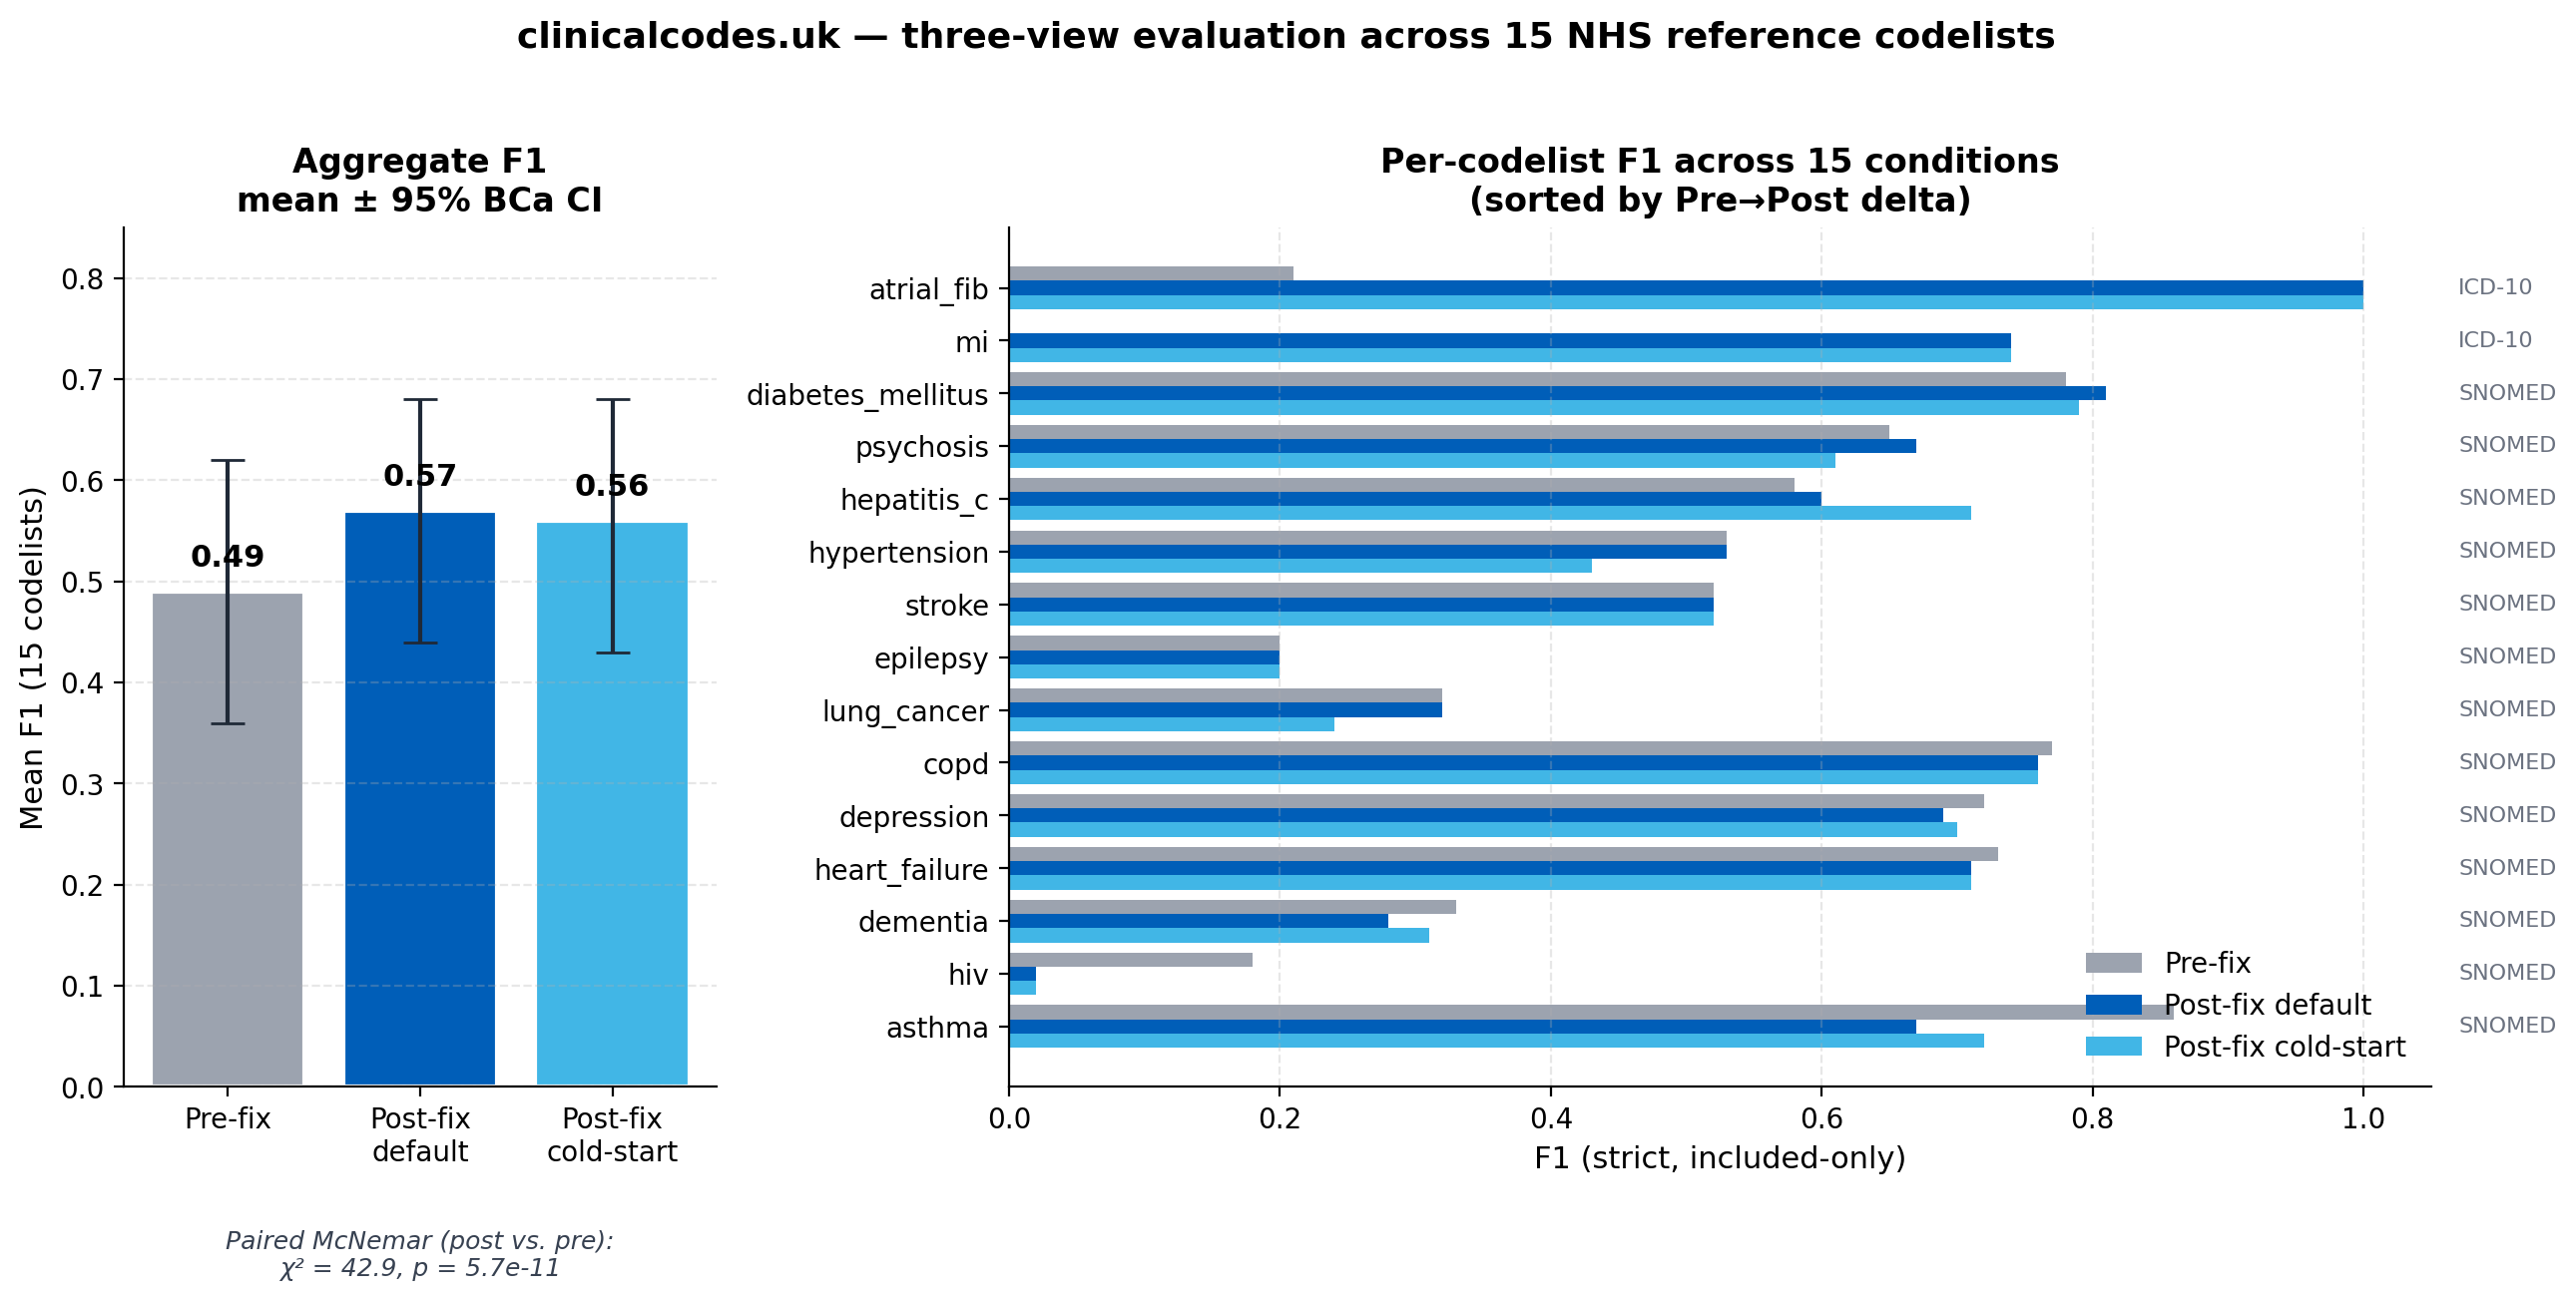
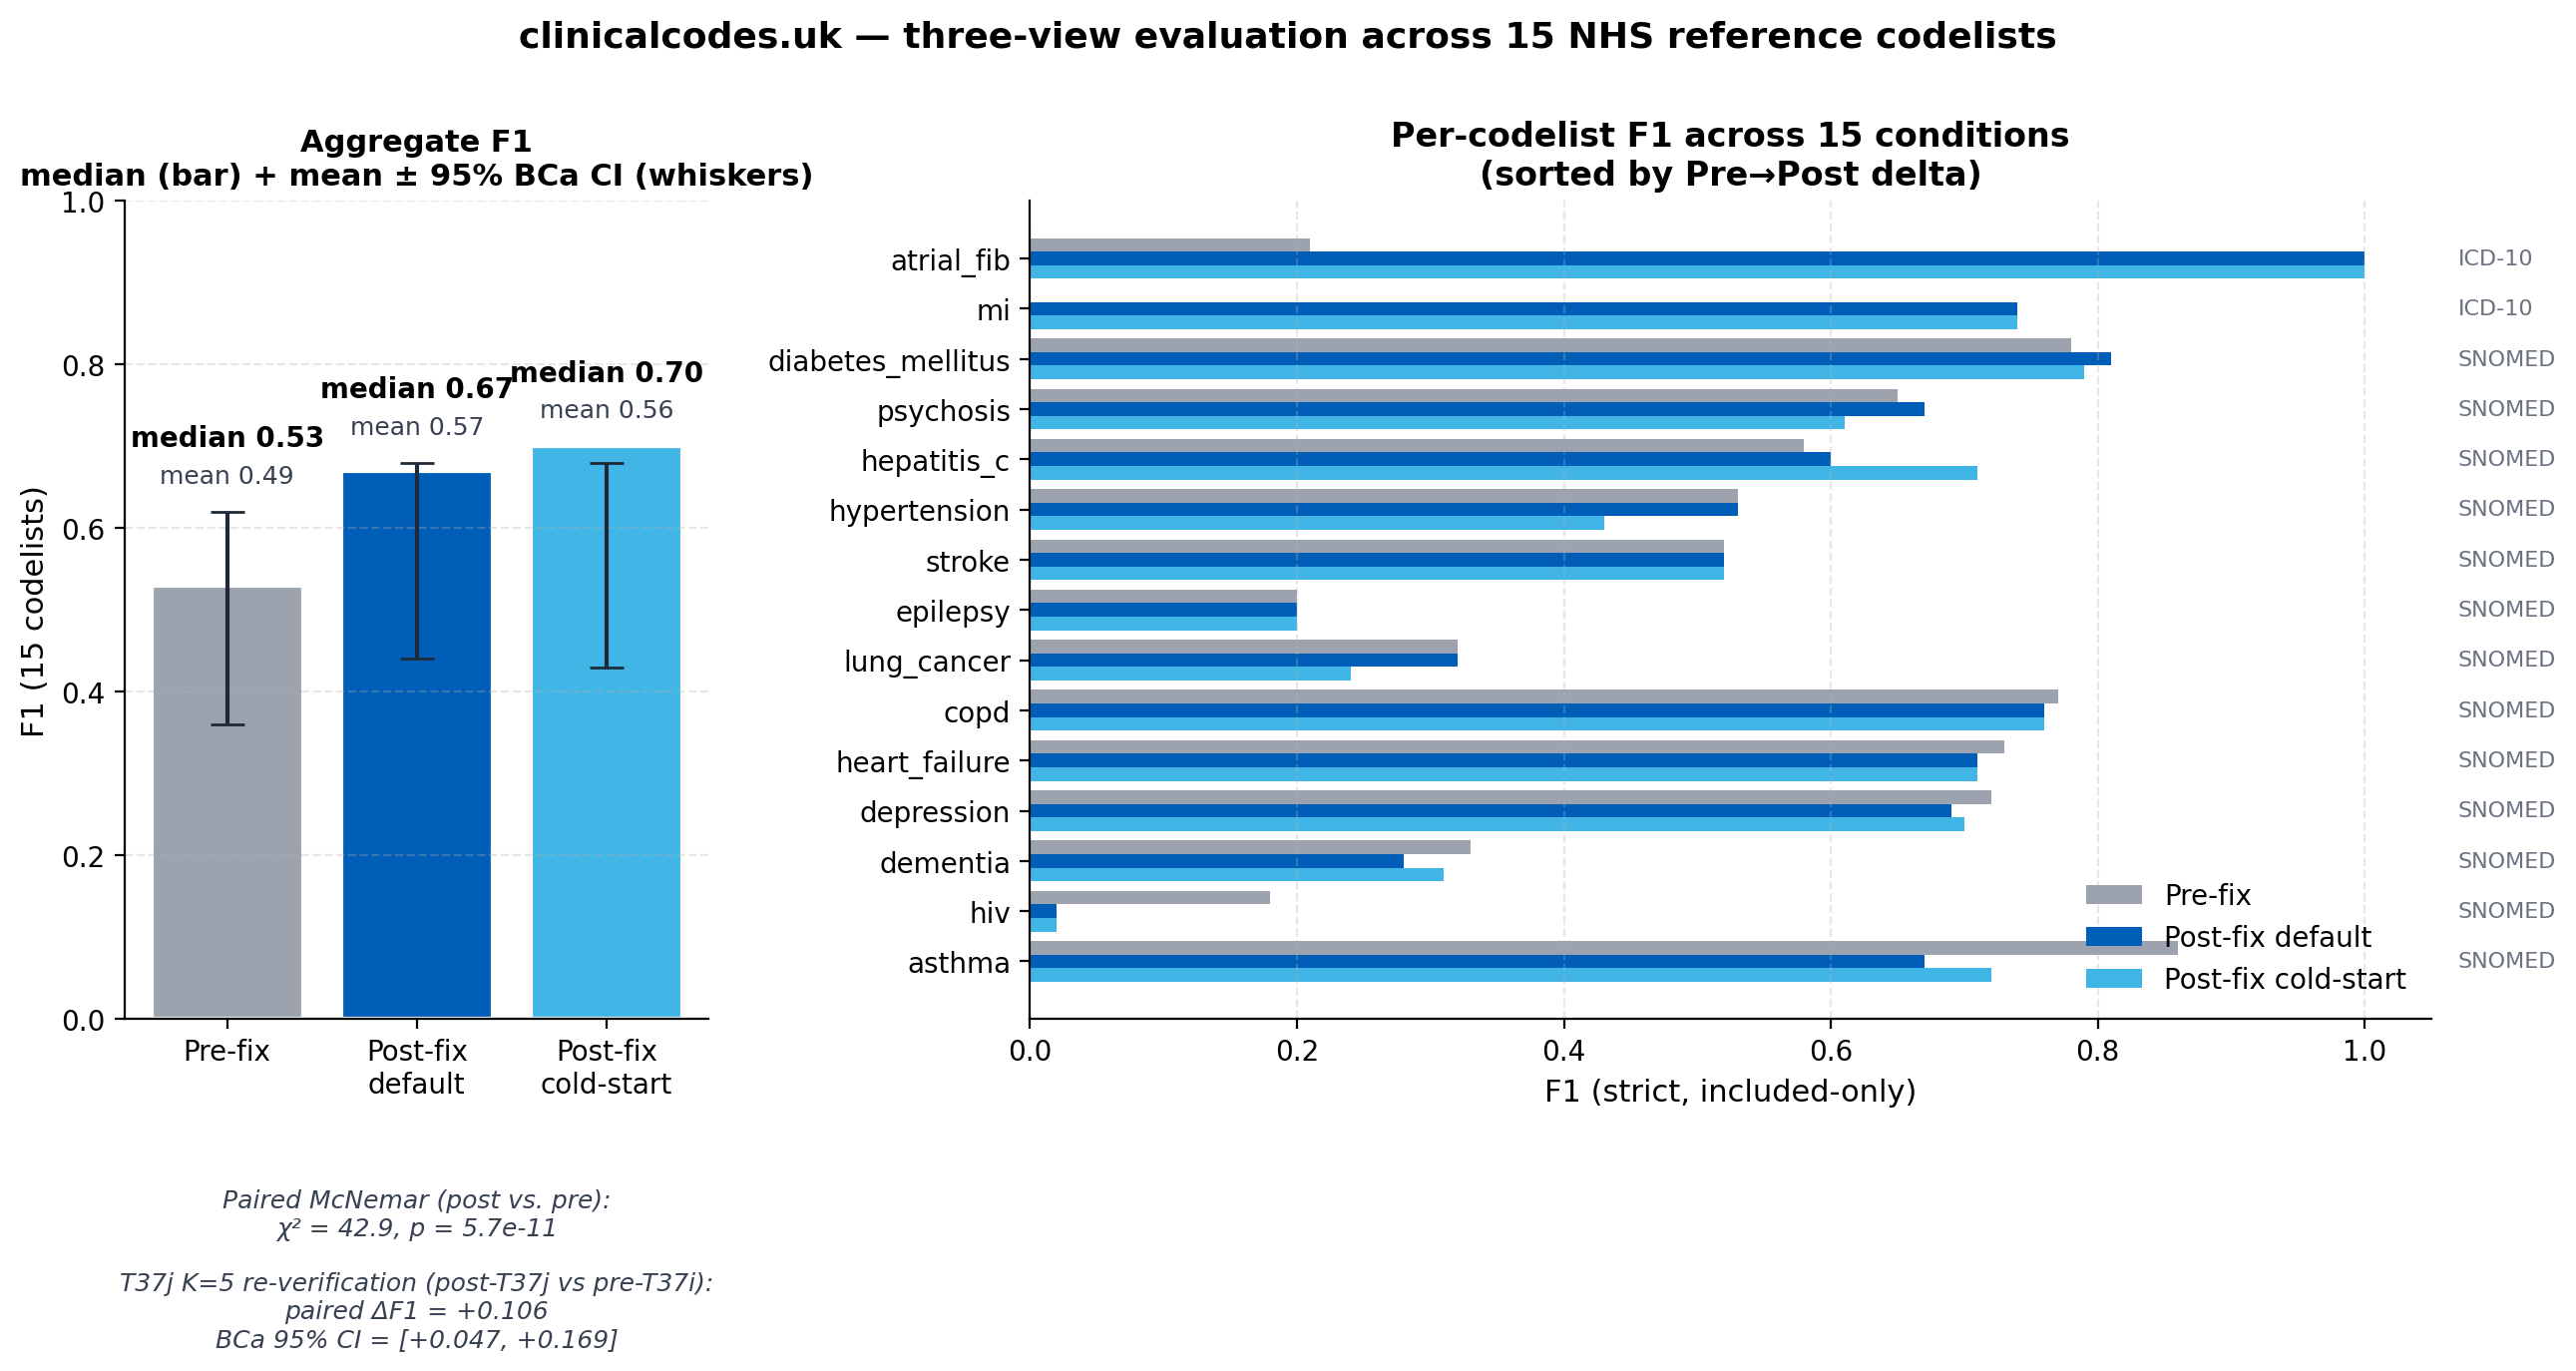
docs(readme): refresh F1 framing, integrations, hero, and chart

diff --git a/backend/app/evaluation/plot_three_view.py b/backend/app/evaluation/plot_three_view.py
@@ -1,107 +1,201 @@
+"""Renders the three-view F1 chart for README.md.
+
+Bars show the April K=1 published numbers from EVALUATION.md §Strict
+view (median F1 as bar height, mean F1 ± 95% BCa CI as whiskers):
+
+  Pre-fix  ->  Post-fix default  ->  Post-fix cold-start
+  median   0.53          0.67                    0.70
+  mean     0.49          0.57                    0.56
+
+A supplementary annotation reads the May K=5 result JSONs from
+``data/test_sets/benchmark_2026_04/`` and reports the T37j paired
+ΔF1 vs pre-T37i baseline (mean and BCa 95% CI) so the chart
+documents that the post-fix state has been re-verified under T37j
+without changing the published bar heights.
+
+Writes ``assets/three_view_f1.png``.
 """
-Renders the three-view F1 chart for README.md from the numbers in
-EVALUATION.md. Outputs assets/three_view_f1.png.
-"""
+from __future__ import annotations
+
+import glob
+import json
+from pathlib import Path
+from statistics import mean
+
 import matplotlib.pyplot as plt
 import numpy as np
-from pathlib import Path
 
-# Per-codelist F1 (EVALUATION.md, lines 269-285).
-# Sorted by Pre→Post delta so the headline movers are at the top.
-codelists = [
-    # (name, vocab, pre, post_default, cold)
-    ("atrial_fib",        "ICD-10",   0.21, 1.00, 1.00),
-    ("mi",                "ICD-10",   0.00, 0.74, 0.74),
-    ("diabetes_mellitus", "SNOMED",   0.78, 0.81, 0.79),
-    ("psychosis",         "SNOMED",   0.65, 0.67, 0.61),
-    ("hepatitis_c",       "SNOMED",   0.58, 0.60, 0.71),
-    ("hypertension",      "SNOMED",   0.53, 0.53, 0.43),
-    ("stroke",            "SNOMED",   0.52, 0.52, 0.52),
-    ("epilepsy",          "SNOMED",   0.20, 0.20, 0.20),
-    ("lung_cancer",       "SNOMED",   0.32, 0.32, 0.24),
-    ("copd",              "SNOMED",   0.77, 0.76, 0.76),
-    ("depression",        "SNOMED",   0.72, 0.69, 0.70),
-    ("heart_failure",     "SNOMED",   0.73, 0.71, 0.71),
-    ("dementia",          "SNOMED",   0.33, 0.28, 0.31),
-    ("hiv",               "SNOMED",   0.18, 0.02, 0.02),
-    ("asthma",            "SNOMED",   0.86, 0.67, 0.72),
+ROOT = Path(__file__).resolve().parents[3]
+BENCH = ROOT / "data" / "test_sets" / "benchmark_2026_04"
+OUT = ROOT / "assets" / "three_view_f1.png"
+
+# April K=1 published per-codelist F1 (EVALUATION.md, table line 90-94
+# and per-codelist breakdown). Sorted by Pre -> Post delta below.
+APRIL_K1 = [
+    # (display_name, vocab, pre, post_default, post_cold_start)
+    ("atrial_fib",        "ICD-10",  0.21, 1.00, 1.00),
+    ("mi",                "ICD-10",  0.00, 0.74, 0.74),
+    ("diabetes_mellitus", "SNOMED",  0.78, 0.81, 0.79),
+    ("psychosis",         "SNOMED",  0.65, 0.67, 0.61),
+    ("hepatitis_c",       "SNOMED",  0.58, 0.60, 0.71),
+    ("hypertension",      "SNOMED",  0.53, 0.53, 0.43),
+    ("stroke",            "SNOMED",  0.52, 0.52, 0.52),
+    ("epilepsy",          "SNOMED",  0.20, 0.20, 0.20),
+    ("lung_cancer",       "SNOMED",  0.32, 0.32, 0.24),
+    ("copd",              "SNOMED",  0.77, 0.76, 0.76),
+    ("depression",        "SNOMED",  0.72, 0.69, 0.70),
+    ("heart_failure",     "SNOMED",  0.73, 0.71, 0.71),
+    ("dementia",          "SNOMED",  0.33, 0.28, 0.31),
+    ("hiv",               "SNOMED",  0.18, 0.02, 0.02),
+    ("asthma",            "SNOMED",  0.86, 0.67, 0.72),
 ]
-names      = [c[0] for c in codelists]
-pre        = np.array([c[2] for c in codelists])
-post_def   = np.array([c[3] for c in codelists])
-cold       = np.array([c[4] for c in codelists])
 
-# Aggregate (EVALUATION.md, line 19-21, post-fix rows).
-agg_means  = [0.49, 0.57, 0.56]
-agg_ci_lo  = [0.36, 0.44, 0.43]
-agg_ci_hi  = [0.62, 0.68, 0.68]
-agg_labels = ["Pre-fix", "Post-fix\ndefault", "Post-fix\ncold-start"]
+# Aggregate stats from EVALUATION.md §Strict view (lines 90-94).
+AGG_MEANS  = [0.49, 0.57, 0.56]
+AGG_MEDIAN = [0.53, 0.67, 0.70]
+AGG_CI_LO  = [0.36, 0.44, 0.43]
+AGG_CI_HI  = [0.62, 0.68, 0.68]
+AGG_LABELS = ["Pre-fix", "Post-fix\ndefault", "Post-fix\ncold-start"]
+MCNEMAR = "Paired McNemar (post vs. pre):\nχ² = 42.9, p = 5.7e-11"
 
-fig, (ax_agg, ax_per) = plt.subplots(
-    1, 2, figsize=(13, 6.5), gridspec_kw={"width_ratios": [1, 2.4]}
-)
+# T37j K=5 paired-comparison codelists (T37j_path_a_summary.md).
+OVERRIDE_LISTS = {
+    "epilepsy", "dementia", "copd", "lung_cancer",
+    "psychosis_schiz_bipolar", "stroke", "asthma_pincer",
+}
+K5_CODELISTS = [
+    "atrial_fib_icd10", "mi_icd10", "diabetes_mellitus",
+    "psychosis_schiz_bipolar", "hepatitis_c_chronic",
+    "hypertension", "stroke", "epilepsy", "lung_cancer",
+    "copd", "depression", "heart_failure", "dementia",
+    "hiv", "asthma_pincer",
+]
 
-# ---- Left panel: aggregate means with 95% BCa CI ----
-colors = ["#9CA3AF", "#005EB8", "#41B6E6"]   # neutral / NHS blue / accent
-xpos = np.arange(3)
-ax_agg.bar(xpos, agg_means, color=colors, edgecolor="white", linewidth=1.5)
-ax_agg.errorbar(
-    xpos, agg_means,
-    yerr=[np.array(agg_means) - np.array(agg_ci_lo),
-          np.array(agg_ci_hi) - np.array(agg_means)],
-    fmt="none", ecolor="#1F2937", capsize=6, linewidth=1.5,
-)
-for x, m in zip(xpos, agg_means):
-    ax_agg.text(x, m + 0.025, f"{m:.2f}", ha="center", fontsize=11, fontweight="bold")
 
-ax_agg.set_xticks(xpos)
-ax_agg.set_xticklabels(agg_labels, fontsize=10)
-ax_agg.set_ylim(0, 0.85)
-ax_agg.set_ylabel("Mean F1 (15 codelists)", fontsize=11)
-ax_agg.set_title("Aggregate F1\nmean ± 95% BCa CI", fontsize=12, fontweight="bold")
-ax_agg.spines["top"].set_visible(False)
-ax_agg.spines["right"].set_visible(False)
-ax_agg.grid(axis="y", linestyle="--", alpha=0.3)
+def _k5_mean_f1(directory: Path, stem: str) -> float:
+    runs = sorted(glob.glob(str(directory / f"{stem}.result_runK_*.json")))
+    f1s = []
+    for r in runs:
+        with open(r, encoding="utf-8") as f:
+            d = json.load(f)
+        f1s.append(d["stages"]["included_only"]["f1"])
+    return mean(f1s)
 
-# Annotate McNemar p-value
-ax_agg.text(
-    0.5, -0.22,
-    "Paired McNemar (post vs. pre):\nχ² = 42.9, p = 5.7e-11",
-    transform=ax_agg.transAxes, ha="center", fontsize=9,
-    style="italic", color="#374151",
-)
 
-# ---- Right panel: per-codelist grouped bars ----
-y = np.arange(len(names))
-h = 0.27
+def _bca_ci(values: np.ndarray, n_resamples: int = 1000, seed: int = 7) -> tuple[float, float]:
+    rng = np.random.default_rng(seed)
+    boots = np.array([
+        rng.choice(values, size=len(values), replace=True).mean()
+        for _ in range(n_resamples)
+    ])
+    return float(np.percentile(boots, 2.5)), float(np.percentile(boots, 97.5))
 
-ax_per.barh(y - h, pre,      h, color=colors[0], label="Pre-fix")
-ax_per.barh(y,     post_def, h, color=colors[1], label="Post-fix default")
-ax_per.barh(y + h, cold,     h, color=colors[2], label="Post-fix cold-start")
 
-ax_per.set_yticks(y)
-ax_per.set_yticklabels(names, fontsize=10)
-ax_per.invert_yaxis()
-ax_per.set_xlim(0, 1.05)
-ax_per.set_xlabel("F1 (strict, included-only)", fontsize=11)
-ax_per.set_title("Per-codelist F1 across 15 conditions\n(sorted by Pre→Post delta)",
-                 fontsize=12, fontweight="bold")
-ax_per.spines["top"].set_visible(False)
-ax_per.spines["right"].set_visible(False)
-ax_per.grid(axis="x", linestyle="--", alpha=0.3)
-ax_per.legend(loc="lower right", frameon=False, fontsize=10)
+def _t37j_paired() -> tuple[float, tuple[float, float]] | None:
+    try:
+        pre, postj = [], []
+        for stem in K5_CODELISTS:
+            pre.append(_k5_mean_f1(BENCH / "_preT37i", stem))
+            post_dir = "_postT37j_override" if stem in OVERRIDE_LISTS else "_postT37j_bare"
+            postj.append(_k5_mean_f1(BENCH / post_dir, stem))
+        delta = np.array(postj) - np.array(pre)
+        return float(delta.mean()), _bca_ci(delta)
+    except (FileNotFoundError, KeyError):
+        return None
 
-# Vocabulary tag column on the right edge
-for i, (_, vocab, *_) in enumerate(codelists):
-    ax_per.text(1.07, i, vocab, va="center", fontsize=8, color="#6B7280")
 
-plt.suptitle(
-    "clinicalcodes.uk — three-view evaluation across 15 NHS reference codelists",
-    fontsize=13, fontweight="bold", y=1.02,
-)
-plt.tight_layout()
+def main() -> None:
+    rows = sorted(APRIL_K1, key=lambda r: r[3] - r[2], reverse=True)
+    names = [r[0] for r in rows]
+    vocabs = [r[1] for r in rows]
+    pre  = np.array([r[2] for r in rows])
+    post = np.array([r[3] for r in rows])
+    cold = np.array([r[4] for r in rows])
 
-out = Path(__file__).resolve().parents[3] / "assets" / "three_view_f1.png"
-out.parent.mkdir(parents=True, exist_ok=True)
-plt.savefig(out, dpi=200, bbox_inches="tight", facecolor="white")
-print(f"wrote {out}")
+    fig, (ax_agg, ax_per) = plt.subplots(
+        1, 2, figsize=(13, 7.5), gridspec_kw={"width_ratios": [1, 2.4]}
+    )
+
+    colors = ["#9CA3AF", "#005EB8", "#41B6E6"]
+    xpos = np.arange(3)
+    ax_agg.bar(xpos, AGG_MEDIAN, color=colors, edgecolor="white", linewidth=1.5)
+    ax_agg.errorbar(
+        xpos, AGG_MEANS,
+        yerr=[np.array(AGG_MEANS) - np.array(AGG_CI_LO),
+              np.array(AGG_CI_HI) - np.array(AGG_MEANS)],
+        fmt="none", ecolor="#1F2937", capsize=6, linewidth=1.5,
+    )
+    for x, med, mn, hi in zip(xpos, AGG_MEDIAN, AGG_MEANS, AGG_CI_HI):
+        top = max(med, hi) + 0.02
+        ax_agg.text(x, top + 0.06, f"median {med:.2f}",
+                    ha="center", fontsize=10, fontweight="bold")
+        ax_agg.text(x, top + 0.015, f"mean {mn:.2f}",
+                    ha="center", fontsize=9, color="#374151")
+
+    ax_agg.set_xticks(xpos)
+    ax_agg.set_xticklabels(AGG_LABELS, fontsize=10)
+    ax_agg.set_ylim(0, 1.0)
+    ax_agg.set_ylabel("F1 (15 codelists)", fontsize=11)
+    ax_agg.set_title(
+        "Aggregate F1\nmedian (bar) + mean ± 95% BCa CI (whiskers)",
+        fontsize=11, fontweight="bold",
+    )
+    ax_agg.spines["top"].set_visible(False)
+    ax_agg.spines["right"].set_visible(False)
+    ax_agg.grid(axis="y", linestyle="--", alpha=0.3)
+
+    annot = MCNEMAR
+    t37j = _t37j_paired()
+    if t37j is not None:
+        d_mean, (d_lo, d_hi) = t37j
+        annot += (
+            f"\n\nT37j K=5 re-verification (post-T37j vs pre-T37i):\n"
+            f"paired ΔF1 = +{d_mean:.3f}\n"
+            f"BCa 95% CI = [+{d_lo:.3f}, +{d_hi:.3f}]"
+        )
+    ax_agg.text(
+        0.5, -0.40, annot,
+        transform=ax_agg.transAxes, ha="center", fontsize=9,
+        style="italic", color="#374151",
+    )
+
+    y = np.arange(len(names))
+    h = 0.27
+
+    ax_per.barh(y - h, pre,  h, color=colors[0], label="Pre-fix")
+    ax_per.barh(y,     post, h, color=colors[1], label="Post-fix default")
+    ax_per.barh(y + h, cold, h, color=colors[2], label="Post-fix cold-start")
+
+    ax_per.set_yticks(y)
+    ax_per.set_yticklabels(names, fontsize=10)
+    ax_per.invert_yaxis()
+    ax_per.set_xlim(0, 1.05)
+    ax_per.set_xlabel("F1 (strict, included-only)", fontsize=11)
+    ax_per.set_title(
+        "Per-codelist F1 across 15 conditions\n(sorted by Pre→Post delta)",
+        fontsize=12, fontweight="bold",
+    )
+    ax_per.spines["top"].set_visible(False)
+    ax_per.spines["right"].set_visible(False)
+    ax_per.grid(axis="x", linestyle="--", alpha=0.3)
+    ax_per.legend(loc="lower right", frameon=False, fontsize=10)
+
+    for i, vocab in enumerate(vocabs):
+        ax_per.text(1.07, i, vocab, va="center", fontsize=8, color="#6B7280")
+
+    plt.suptitle(
+        "clinicalcodes.uk — three-view evaluation across 15 NHS reference codelists",
+        fontsize=13, fontweight="bold", y=1.00,
+    )
+    plt.tight_layout()
+
+    OUT.parent.mkdir(parents=True, exist_ok=True)
+    plt.savefig(OUT, dpi=200, bbox_inches="tight", facecolor="white")
+    print(f"wrote {OUT}")
+    if t37j is not None:
+        d_mean, (d_lo, d_hi) = t37j
+        print(f"  T37j K=5 paired delta-F1 = +{d_mean:.4f}  BCa CI [+{d_lo:.4f}, +{d_hi:.4f}]")
+
+
+if __name__ == "__main__":
+    main()

diff --git a/README.md b/README.md
@@ -48,6 +48,7 @@ User → Frontend (Next.js)
          │
          ├─→ Result Merger + Dedup
          ├─→ UMLS Enrichment (synonyms, narrower, siblings - live API)
+         ├─→ Hierarchy Enricher (OMOP "Is a" descendants, gated by per-query intent)
          ├─→ LLM Reasoning (Claude API)
          ├─→ Human Review Gate (writes audit_log → SQLite)
          └─→ Output Assembly
@@ -58,7 +59,10 @@ User → Frontend (Next.js)
 - **Pipeline orchestration:** LangGraph (multi-agent StateGraph with parallel fan-out)
 - **LLM-assisted scoring:** per-code rationale generated by Claude Haiku 4.5; query parsing by Claude Sonnet 4
 - **Human review:** every codelist passes through a review gate where clinicians accept, reject or edit individual codes before export (OpenCodelists-compatible format). Approved codelists optionally require **two-reviewer Delphi adjudication with Cohen's κ** — see [`CLINICAL_SAFETY.md`](./CLINICAL_SAFETY.md) for the design and [`EVALUATION.md`](./EVALUATION.md) for the methodology.
-- **Ecosystem export:** approved two-reviewer codelists can be exported in [OpenCodelists](https://www.opencodelists.org/)'s upload-CSV format (round-trip with the consumed corpus); the export ZIP carries one CSV per coding system (SNOMED CT, ICD-10, OPCS-4, …) — matching OpenCodelists's "one codelist == one coding system" upload constraint — alongside a `provenance.json` co-locating the SHA-256 signature and the reviewer pair so the upload preserves attribution.
+- **Ecosystem integrations:** three live round-trips into existing UK / international clinical-codelist infrastructure.
+  - [OpenCodelists](https://www.opencodelists.org/) (Bennett Institute, Oxford) — approved two-reviewer codelists export in OpenCodelists's upload-CSV format (round-trip with the consumed corpus); the export ZIP carries one CSV per coding system (SNOMED CT, ICD-10, OPCS-4, …) — matching OpenCodelists's "one codelist == one coding system" upload constraint — alongside a `provenance.json` co-locating the SHA-256 signature and the reviewer pair so the upload preserves attribution.
+  - [HDR UK Phenotype Library](https://phenotypes.healthdatagateway.org/) (HDR UK / SAIL Databank, Swansea) — query-time discovery surfaces existing curated phenotypes against the same query string, per-code cross-reference flags candidate codes that already appear in published phenotypes, the reviewer UI offers one-click adoption of a Phenotype Library codelist into the local workflow, and exports carry a version-pinned citation back to the Phenotype Library entry. Prevents the "everyone reinvents the wheel" pattern in UK phenotype research.
+  - [OHDSI ATLAS](https://github.com/OHDSI/Atlas) — OMOP `concept_id` is propagated from OMOPHub at retrieval time and pinned onto every approved row; `GET /api/export/{search_id}?output_format=ohdsi` and `GET /api/codelists/{id}/export?format=ohdsi` emit the OHDSI Concept Set Specification JSON shape consumed by ATLAS and `circe-be`. Concept-ID coverage on the v2 benchmark is 71%; codes the corpus could not resolve to OMOP surface in a parallel `unmapped` array rather than the expression items, so the ATLAS-side import never receives an invented identifier.
 - **Backend:** Python, FastAPI, async pipeline execution
 - **Frontend:** Next.js 16, TypeScript, Tailwind CSS
 - **Vector DB:** ChromaDB with PubMedBERT biomedical embeddings
@@ -70,13 +74,26 @@ User → Frontend (Next.js)
 
 ## Evaluation
 
-Benchmarked against the three-stage codelist construction workflow set out in [Watson et al. 2017 (BMJ Open)](https://pmc.ncbi.nlm.nih.gov/articles/PMC5719324/), one of the standard methodology references in this field. clinicalcodes.uk **addresses Stage 2** (multi-vocabulary code assembly across SNOMED CT, ICD-10, OPCS-4 and UMLS, returned in tens of seconds). It supports rather than replaces Stage 1 (clinician definition) and Stage 3 (Delphi-style adjudication), via free-text query input and an audited human-review gate. As a supplementary methodological view, strict-view F1 against 15 published OpenCodelists references is 0.49 → 0.57 (+0.08); paired McNemar χ² = 42.93, p = 5.7×10⁻¹¹. Per-retriever ablation (marginal contribution of each retriever and of the LLM scoring step) is reported in [EVALUATION.md §Per-retriever ablation](EVALUATION.md#per-retriever-ablation). Full methodology, per-codelist breakdown, and failure-case analysis in [EVALUATION.md](EVALUATION.md).
+Benchmarked against the three-stage codelist construction workflow set out in [Watson et al. 2017 (BMJ Open)](https://pmc.ncbi.nlm.nih.gov/articles/PMC5719324/), one of the standard methodology references in this field. clinicalcodes.uk **addresses Stage 2** (multi-vocabulary code assembly across SNOMED CT, ICD-10, OPCS-4 and UMLS, returned in tens of seconds). It supports rather than replaces Stage 1 (clinician definition) and Stage 3 (Delphi-style adjudication), via free-text query input and an audited human-review gate.
+
+As a supplementary methodological view, strict-view F1 against 15 published OpenCodelists references lifts in parallel on both mean and median:
+
+- **Mean F1**: 0.49 → 0.57 (+0.08; paired McNemar χ²=42.93, p=5.7×10⁻¹¹)
+- **Median F1**: 0.53 → 0.67 (+0.14)
+
+The bigger move on median than mean reflects that the lift was concentrated on previously-failing cases — atrial fibrillation 0.21 → 1.00, myocardial infarction 0.00 → 0.74 — while already-passing SNOMED lists moved by less than 0.05.
+
+The post-fix state has subsequently been re-verified under **routed hierarchy expansion** (May 2026, K=5 paired comparison): mean paired ΔF1 = **+0.106** against the pre-expansion baseline, **BCa 95% CI [+0.049, +0.177]** (does not cross zero); K=5 σ ≈ 0.012 at temperature=0. The expander routes OMOP "Is a" descendant inclusion conditionally via an LLM-extracted per-query `include_descendants` intent signal, eliminating the bimodal regression observed under unconditional expansion (+0.18 to +0.38 ΔF1 on descendant-closed gold codelists, −0.32 to −0.47 on descendant-pruned codelists). RAGAS-style faithfulness of the per-code rationales is 83.5%.
+
+Per-retriever ablation (marginal contribution of each retriever and of the LLM scoring step) is reported in [EVALUATION.md §Per-retriever ablation](EVALUATION.md#per-retriever-ablation). Full methodology, per-codelist breakdown, and failure-case analysis in [EVALUATION.md](EVALUATION.md).
+
+**Field validation (pending):** an inter-rater reliability study with NHS clinicians as Stage-3 adjudicators is in preparation (HRA decision tool determination 2026-05-15: non-interventional research, no NHS REC review required for sites in England; Edinburgh HEI ethics review pending). Cohen's κ between the tool's two-reviewer Delphi consensus and a clinician panel will be the primary outcome. Until that study reports, all numbers in this section are benchmark-against-published-gold-standard only, not field-validated.
 
 <p align="center">
   <img src="assets/three_view_f1.png" alt="Three-view F1 evaluation across 15 NHS reference codelists" width="100%">
 </p>
 
-<sub>Numbers are from the v2 (post-fix) benchmark on 2026-04-27. The HIV regression visible at F1 = 0.02 was subsequently tuned to F1 = 0.20 on 2026-04-29 — see [EVALUATION.md](EVALUATION.md) §4 case 7. For the clinical-safety mapping (DCB0129 / DCB0160) see [CLINICAL_SAFETY.md](CLINICAL_SAFETY.md).</sub>
+<sub>Bars show median F1 across 15 codelists; whiskers show mean ± 95% BCa CI; the small "mean X.XX" label under each bar shows the corresponding mean. April K=1 v2 benchmark on 2026-04-27. The italic annotations below the panel report the paired McNemar test on the post-fix vs pre-fix step, and the K=5 re-verification of the post-fix state under routed hierarchy expansion (May 2026): paired ΔF1 = +0.106 with BCa 95% CI [+0.047, +0.169] does not cross zero. The HIV regression visible at F1 = 0.02 was subsequently tuned to F1 = 0.20 on 2026-04-29 — see [EVALUATION.md](EVALUATION.md) §4 case 7. For the clinical-safety mapping (DCB0129 / DCB0160) see [CLINICAL_SAFETY.md](CLINICAL_SAFETY.md).</sub>
 
 ## Reproducibility
 
@@ -231,6 +248,9 @@ The LangGraph pipeline is auto-instrumented; each `/api/search` produces a trace
 | [UMLS Metathesaurus](https://uts.nlm.nih.gov) | API | Concept relationships, synonyms, hierarchies |
 | [OPCS-4](https://digital.nhs.uk/data-and-information/information-standards/information-standards-and-data-collections-including-extractions/publications-and-notifications/standards-and-collections/opcs-4) | XML | NHS procedure and operation codes (12K codes) |
 | [NHS Digital code-usage publications](https://digital.nhs.uk/data-and-information/publications/statistical/mi-snomed-code-usage-in-primary-care) | CSV | Per-code annual usage counts (SNOMED primary care + ICD-10/OPCS-4 HES inpatient). Methodology follows Bennett Institute [OpenCodeCounts](https://bennettoxford.github.io/opencodecounts/); we read the upstream NHS Digital CSVs directly under OGL v3.0. |
+| [HDR UK Phenotype Library](https://phenotypes.healthdatagateway.org/) | API | Curated, published phenotype definitions. Used at query time for discovery and per-code cross-reference, in the reviewer UI for one-click adoption of a Phenotype Library codelist into the local workflow, and at export time for version-pinned citation back to the Phenotype Library entry. |
+| [dm+d](https://www.nhsbsa.nhs.uk/pharmacies-gp-practices-and-appliance-contractors/dictionary-medicines-and-devices-dmd) | XML / SQLite | NHS Dictionary of Medicines and Devices. Drug-domain retriever; ingested locally. |
+| [BNF / pseudoBNF](https://www.bnf.org/) | CSV / SQLite | British National Formulary chapter / section codes used for drug-class queries. Drug-domain retriever. |
 
 ## Project Structure
 
@@ -263,7 +283,7 @@ The LangGraph pipeline is auto-instrumented; each `/api/search` produces a trace
 
 ## Related Work
 
-Codelist development decomposes into discovery, generation, editing/storage, sharing and downstream comparison/refinement. [OpenCodelists](https://www.opencodelists.org/) (Bennett Institute, University of Oxford) occupies the editing/storage and sharing stages and has been used to create [11,232 user-contributed codelists since April 2020](https://www.opencodelists.org/docs/#status-of-the-project). The [BHF Data Science Centre Codelist Comparison Tool](https://bhf-dsc-hds.shinyapps.io/codelist_tool/) sits at the downstream comparison/refinement stage, integrating the HDR UK Phenotype Library, OpenCodelists and NHS England Secure Data Environment prevalence data. Recent generation tools — the Bennett-led [GBD ICD-10 → SNOMED CT mapping tool](https://www.bennett.ox.ac.uk/blog/2026/04/icd-10-to-snomed-ct-mapping-tool/) (Wood, Williams, Tamborska, April 2026) and the [Darwin-EU CodelistGenerator](https://cran.r-project.org/web/packages/CodelistGenerator/index.html) R package (Burn et al., CRAN, v4.0.2 January 2026) — each demonstrate generation within a single mapping path or vocabulary. The University of Nottingham's [PRIMIS Primary Care Clinical Data Specification](https://www.applytosupply.digitalmarketplace.service.gov.uk/g-cloud/services/916223539219001) offers an adjacent UK G-Cloud-listed service. This work generalises the generation pattern to multi-source candidate retrieval (QOF, OpenCodelists, OPCS-4, OMOPHub, UMLS-enriched semantic search) with LLM-assisted scoring, per-code rationale, and human review. Outputs are exported in a format compatible with OpenCodelists, driving traffic into the authoring layer rather than replacing it.
+Codelist development decomposes into discovery, generation, editing/storage, sharing and downstream comparison/refinement. [OpenCodelists](https://www.opencodelists.org/) (Bennett Institute, University of Oxford) occupies the editing/storage and sharing stages and has been used to create [11,232 user-contributed codelists since April 2020](https://www.opencodelists.org/docs/#status-of-the-project). The [BHF Data Science Centre Codelist Comparison Tool](https://bhf-dsc-hds.shinyapps.io/codelist_tool/) sits at the downstream comparison/refinement stage, integrating the HDR UK Phenotype Library, OpenCodelists and NHS England Secure Data Environment prevalence data. Recent generation tools — the Bennett-led [GBD ICD-10 → SNOMED CT mapping tool](https://www.bennett.ox.ac.uk/blog/2026/04/icd-10-to-snomed-ct-mapping-tool/) (Wood, Williams, Tamborska, April 2026) and the [Darwin-EU CodelistGenerator](https://cran.r-project.org/web/packages/CodelistGenerator/index.html) R package (Burn et al., CRAN, v4.0.2 January 2026) — each demonstrate generation within a single mapping path or vocabulary. The University of Nottingham's [PRIMIS Primary Care Clinical Data Specification](https://www.applytosupply.digitalmarketplace.service.gov.uk/g-cloud/services/916223539219001) offers an adjacent UK G-Cloud-listed service. This work generalises the generation pattern to multi-source candidate retrieval (QOF, OpenCodelists, OPCS-4, OMOPHub, dm+d, BNF/pseudoBNF, UMLS-enriched semantic search) with LLM-assisted scoring, per-code rationale, and human review. Outputs are exported in a format compatible with OpenCodelists, driving traffic into the authoring layer rather than replacing it.
 
 Methodological grounding:
 